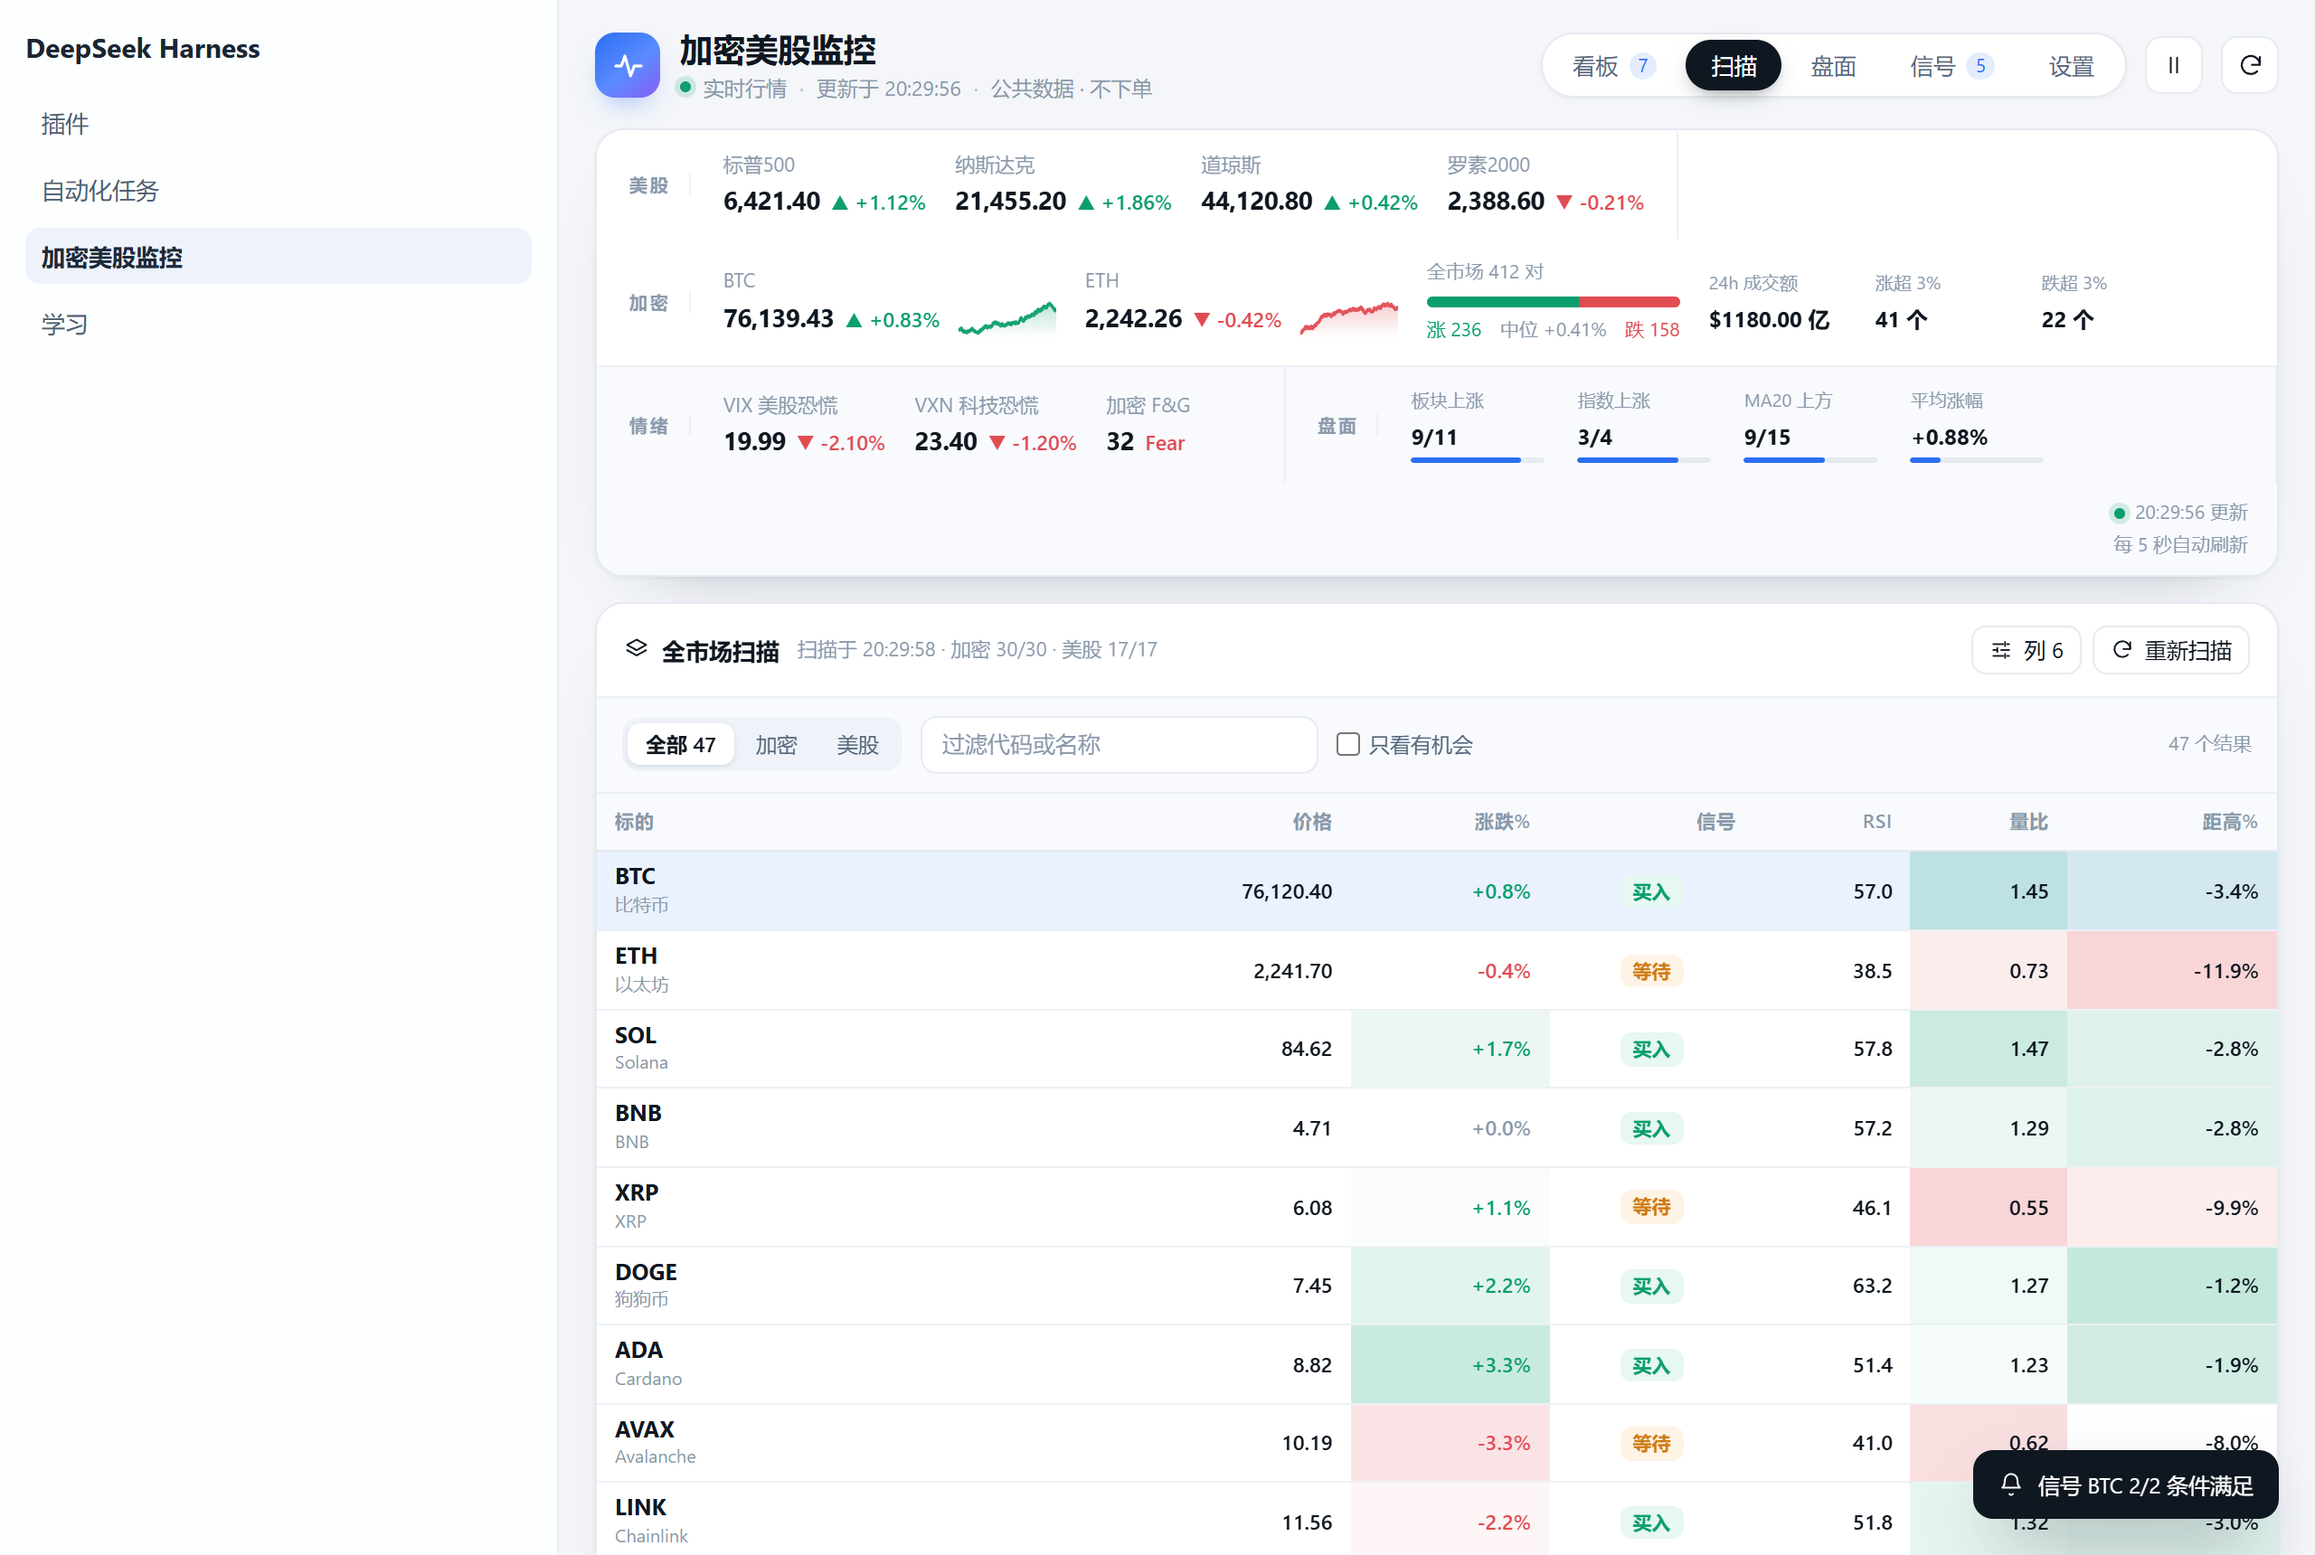
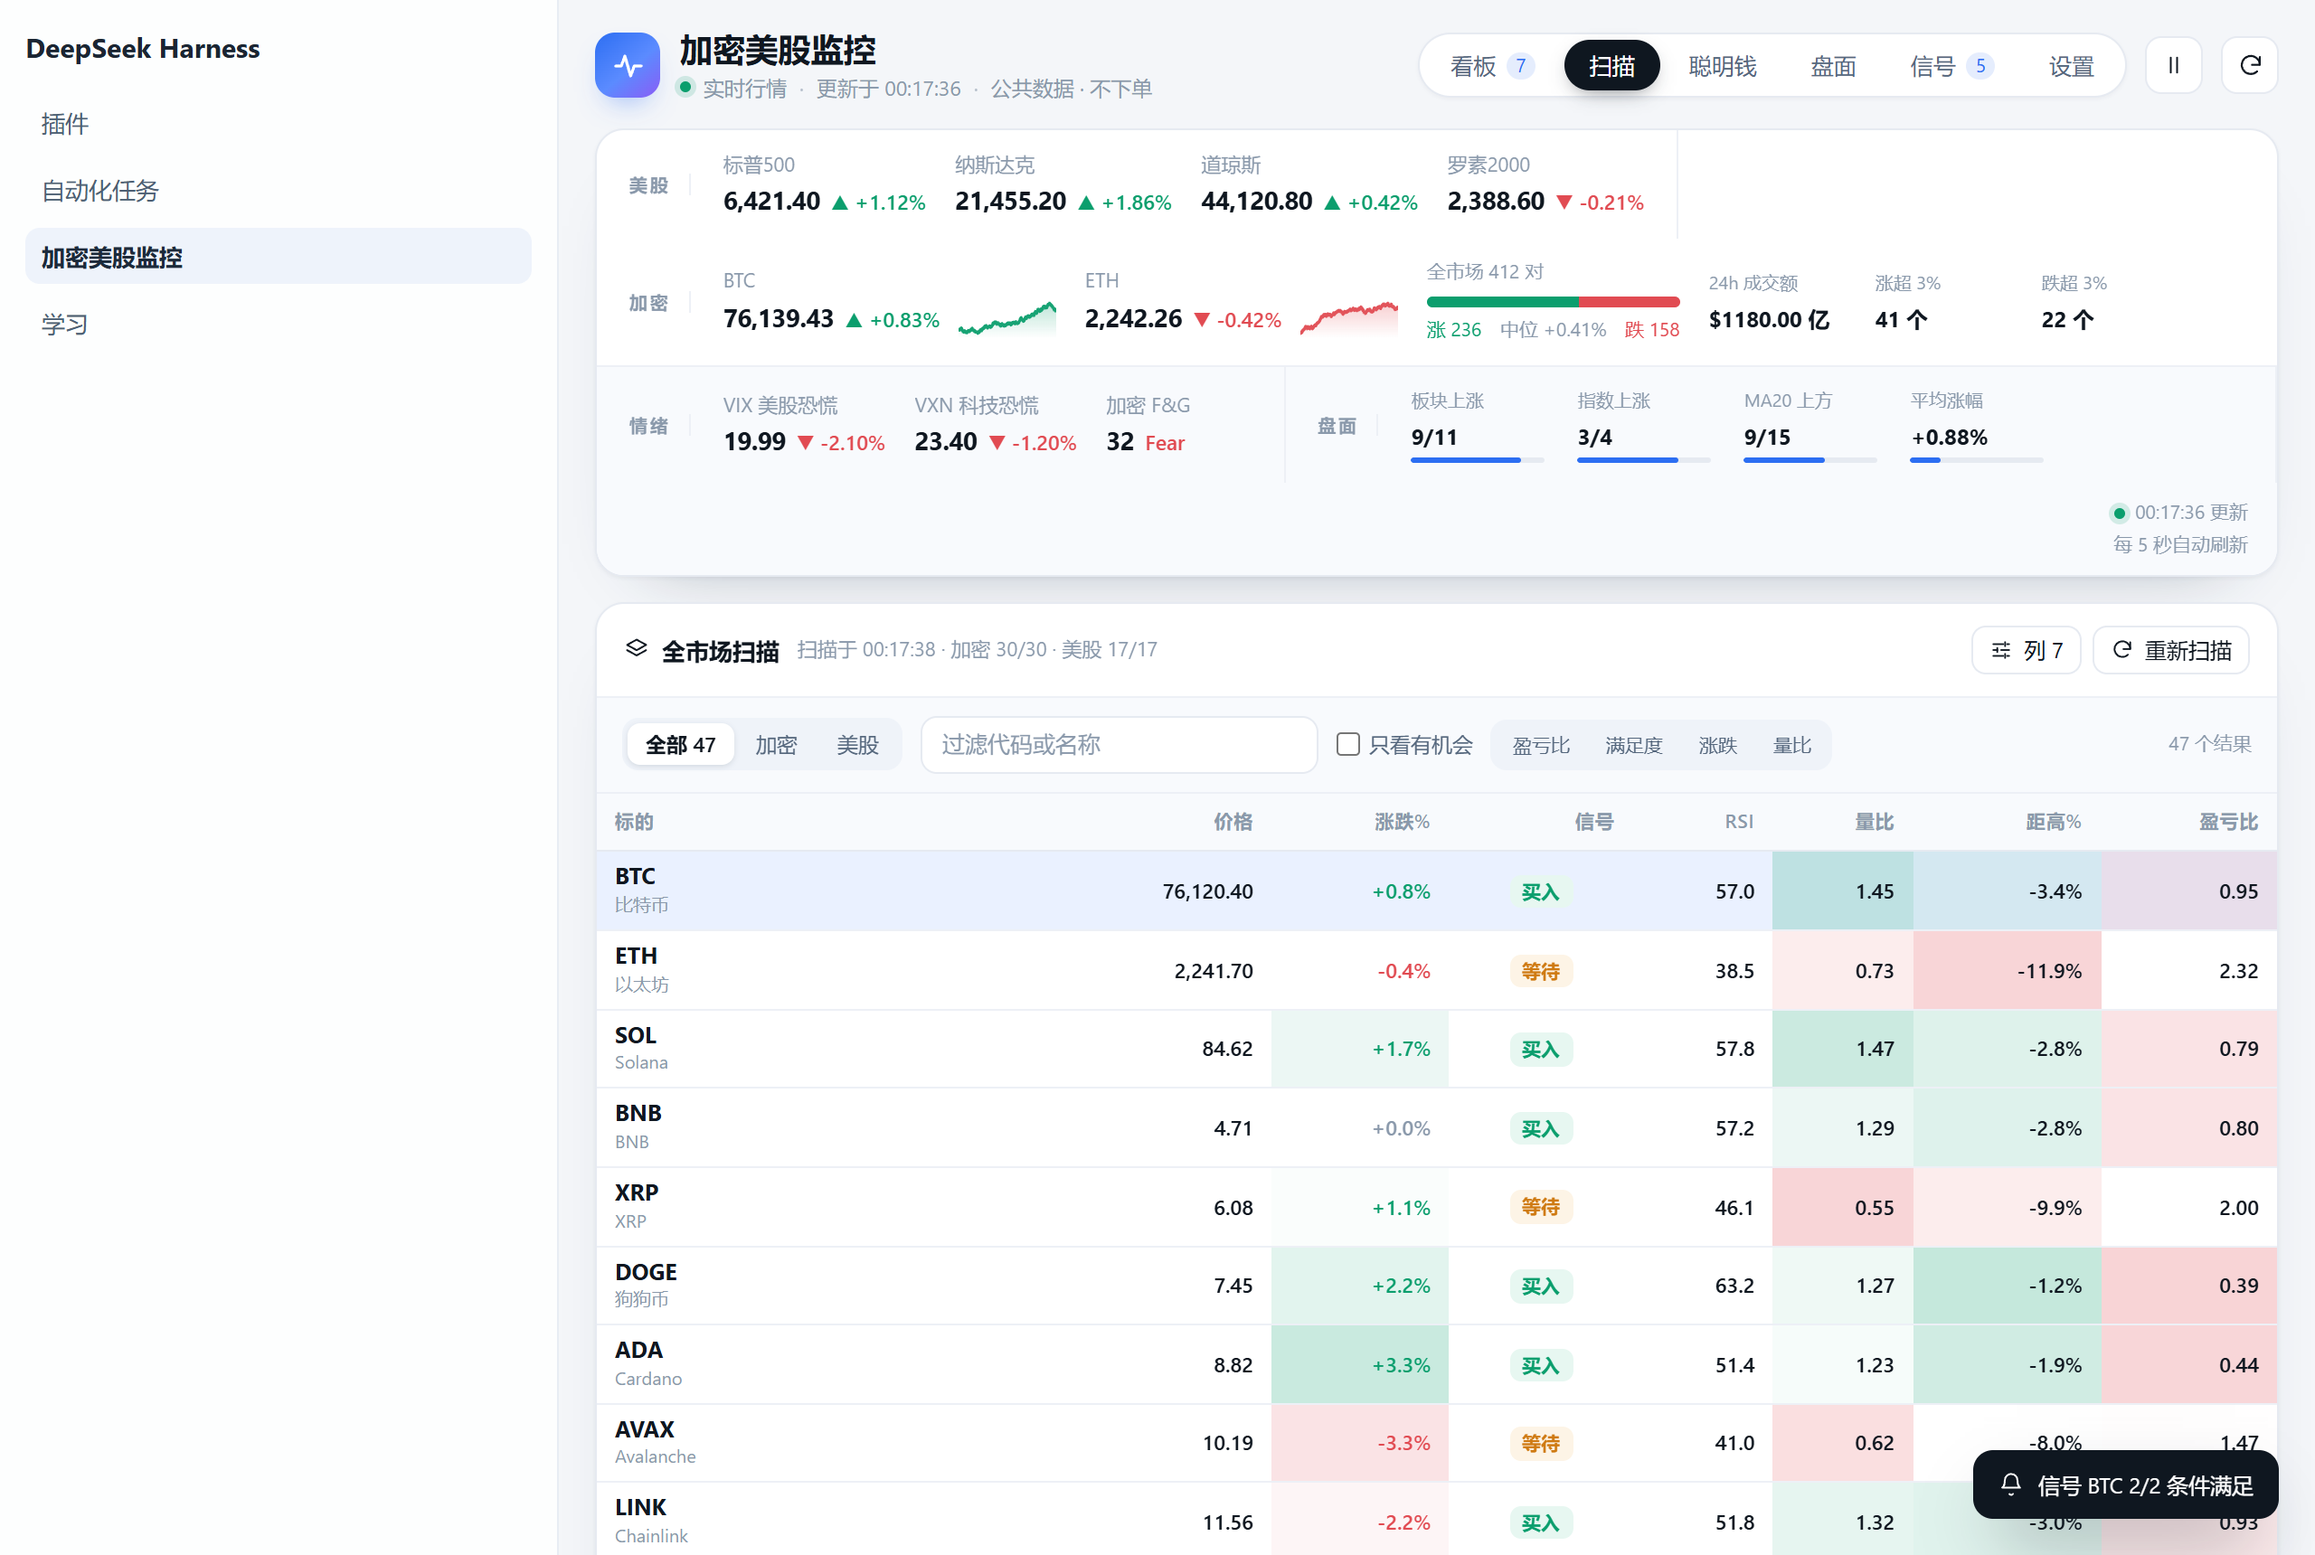
feat: 0.24.0 扫描新增盈亏比排序与 5 项指标列，美股补成交额与 52 周高低

diff --git a/lib/client.js b/lib/client.js
@@ -2119,15 +2119,31 @@ window.__ModuleLoader__.load({
 				{ id: "pctB", label: "%B", kind: "number", digits: 2, heat: "none" },
 				{ id: "bbw", label: "布林分位", kind: "number", digits: 0, suffix: "%", heat: "none" },
 				{ id: "obv", label: "OBV%", kind: "percent", heat: "up" },
-				{ id: "volume", label: "成交额", kind: "compact", heat: "none" }
+				{ id: "volume", label: "成交额", kind: "compact", heat: "none" },
+				{ id: "rr", label: "盈亏比", kind: "number", digits: 2, heat: "up" },
+				{ id: "ma200", label: "距MA200%", kind: "percent", heat: "up" },
+				{ id: "rsi2", label: "RSI2", kind: "number", digits: 1, heat: "none" },
+				{ id: "chg5", label: "5日%", kind: "percent", heat: "up" },
+				{ id: "dist52", label: "距52周高%", kind: "percent", heat: "up" }
 			];
-			const DEFAULT_COLUMNS = ["price", "change", "signal", "rsi", "vol", "distHigh"];
+			const DEFAULT_COLUMNS = ["price", "change", "signal", "rr", "rsi", "vol", "distHigh"];
 
-			function metricsOf(row) {
+			function metricsOf(row, stopAtr) {
 				const ta = row && row.ta ? row.ta : {};
 				const boll = ta.boll || {};
 				const macd = ta.macd || {};
 				const adx = ta.adx || {};
+				const atrPct = isNum(ta.atrPct) ? Number(ta.atrPct) : null;
+				const distHigh = isNum(ta.distanceHigh60Pct) ? Number(ta.distanceHigh60Pct) : null;
+				// 盈亏比 = 到 60 日高的空间 / 止损距离（默认 2×ATR）
+				const rr = distHigh !== null && atrPct !== null && atrPct > 0
+					? Math.abs(distHigh) / (Math.max(1, Number(stopAtr) || 2) * atrPct)
+					: null;
+				const price = row && isNum(row.price) ? Number(row.price) : null;
+				const ma200 = isNum(ta.ma200) ? Number(ta.ma200) : null;
+				const ma200Dist = ma200 !== null && ma200 > 0 && price !== null ? (price / ma200 - 1) * 100 : null;
+				const high52 = row && isNum(row.fiftyTwoWeekHigh) ? Number(row.fiftyTwoWeekHigh) : null;
+				const dist52 = high52 !== null && high52 > 0 && price !== null ? (price / high52 - 1) * 100 : null;
 				return {
 					price: row ? row.price : null,
 					change: row ? row.change : null,
@@ -2144,7 +2160,12 @@ window.__ModuleLoader__.load({
 					pctB: boll.percentB,
 					bbw: boll.bandwidthPercentile,
 					obv: ta.obvSlopePct,
-					volume: row ? row.volume : null
+					volume: row ? row.volume : null,
+					rr: rr,
+					ma200: ma200Dist,
+					rsi2: ta.rsi2,
+					chg5: ta.change5dPct,
+					dist52: dist52
 				};
 			}
 
@@ -2171,7 +2192,7 @@ window.__ModuleLoader__.load({
 
 			function DataTable(props) {
 				const columns = useMemo(() => COLUMN_DEFS.filter((def) => props.columns.indexOf(def.id) >= 0), [props.columns]);
-				const entries = useMemo(() => props.rows.map((row) => ({ row: row, m: metricsOf(row) })), [props.rows]);
+				const entries = useMemo(() => props.rows.map((row) => ({ row: row, m: metricsOf(row, props.stopAtr) })), [props.rows, props.stopAtr]);
 				const [sort, setSort] = useState(null);
 				const ranges = useMemo(() => {
 					const out = {};
@@ -2203,6 +2224,15 @@ window.__ModuleLoader__.load({
 					});
 					return list;
 				}, [entries, sort]);
+
+				useEffect(() => {
+					if (!props.sortSignal) return;
+					const parts = String(props.sortSignal).split(":");
+					const key = parts[0];
+					if (!key) return;
+					const dir = parts[1] === "asc" ? "asc" : "desc";
+					setSort({ key: key, dir: dir });
+				}, [props.sortSignal]);
 
 				const toggleSort = (id) => {
 					setSort((prev) => {
@@ -2294,6 +2324,7 @@ window.__ModuleLoader__.load({
 				const [query, setQuery] = useState("");
 				const [onlyOpps, setOnlyOpps] = useState(false);
 				const [page, setPage] = useState(0);
+				const [sortRequest, setSortRequest] = useState(null);
 				const PAGE_SIZE = 40;
 
 				const filtered = useMemo(() => {
@@ -2366,6 +2397,12 @@ window.__ModuleLoader__.load({
 								}
 							}),
 							"只看有机会"),
+						h("div", { className: "mn-seg mn-seg-compact", title: "按这一列排序" },
+							[["rr", "盈亏比"], ["score", "满足度"], ["change", "涨跌"], ["vol", "量比"]].map((pair) => h("button", {
+								key: pair[0],
+								type: "button",
+								onClick: () => setSortRequest({ key: pair[0], token: Date.now() })
+							}, pair[1]))),
 						h("span", { className: "mn-hint", style: { marginLeft: "auto" } }, filtered.length + " 个结果")),
 					props.error
 						? h("div", { className: "mn-error", style: { margin: "10px 15px" } }, h(Icon, { name: "warn", size: 14 }), props.error)
@@ -2386,6 +2423,8 @@ window.__ModuleLoader__.load({
 							: h(DataTable, {
 								rows: slice,
 								columns: props.columns,
+								stopAtr: props.stopAtr,
+								sortSignal: sortRequest ? sortRequest.key + ":desc:" + sortRequest.token : props.sortSignal,
 								activeKey: props.activeKey,
 								onSelect: props.onOpen,
 								emptyIcon: "layers",
@@ -3199,6 +3238,7 @@ window.__ModuleLoader__.load({
 						price: row.price,
 						change: row.changePct,
 						volume: row.volume,
+						fiftyTwoWeekHigh: row.fiftyTwoWeekHigh ?? null,
 						ta: row.ta || null,
 						analysis: settings.showSignals ? evaluatePreset(row.ta, settings, preset) : null
 					}));
@@ -3657,6 +3697,7 @@ window.__ModuleLoader__.load({
 				} else if (view === "scan") {
 					body = h(ScanView, {
 						rows: scanRows,
+						stopAtr: settings.thresholds ? settings.thresholds.stopAtr : 2,
 						busy: scan.busy,
 						ts: scan.ts,
 						error: scan.error,

diff --git a/lib/index.js b/lib/index.js
@@ -1775,7 +1775,9 @@ async function scanStockRows(limit, config) {
 			name: row.name || symbol,
 			price: row.price,
 			changePct: row.changePct,
-			volume: null,
+			volume: row.price && row.volume ? row.price * row.volume : null,
+			fiftyTwoWeekHigh: row.fiftyTwoWeekHigh ?? null,
+			fiftyTwoWeekLow: row.fiftyTwoWeekLow ?? null,
 			ta: scanTa(row.ta)
 		};
 	}));

diff --git a/README.md b/README.md
@@ -4,6 +4,26 @@
 
 > 界面截图见 `docs/panel.png`、`docs/scan.png`、`docs/table.png`、`docs/mood.png`（重启 DSH 后在左侧图标列打开）。
 
+## 0.24 扫描增强
+
+## 盈亏比
+
+定义：`盈亏比 = |距 60 日高 %| ÷ (止损倍数 × ATR%)`，也就是「涨到 60 日高还有多少空间」除以「按 2×ATR 止损要承担多少波动」。数值越大，同样的止损距离换来的上行空间越多。
+
+- 列默认展示，点表头可升降序。
+- 扫描工具条加了四个快捷键：盈亏比、满足度、涨跌、量比，点一下直接按该列降序。
+- 止损倍数跟随「设置 → 止损 ×ATR」，改参数后盈亏比会跟着变。
+
+## 指标列补全
+
+新增列：盈亏比、距 MA200%、RSI2、5 日%、距 52 周高%。加上原有的价格/涨跌/信号/满足度/RSI/MACD/ADX/ATR%/量比/距高/20 日/%B/布林分位/OBV/成交额，可勾选列共 20 项。
+
+## 数据补充
+
+- 美股扫描行补了成交额（成交量 × 价格）和 52 周高/低，之前这两项是空的。
+- 加密行沿用 24h 成交额。
+- 列选择器会记住你的勾选，存在 localStorage。
+
 ## 0.23 聪明钱 · 带单员
 
 新页签「聪明钱」，第一个区块是「带单员」：把你关注的币安跟单带单员放在一起，每 20 秒刷新。
@@ -127,7 +147,7 @@
 2. 通过 DSH 的插件管理或配置，以本地 `link` 方式加载该目录。
 3. 重启 DSH Desktop，左侧图标列（插件 / 浏览器 / 学习那一列）会出现「加密美股监控」图标；点击后在中央面板打开。
 
-当前版本为 **0.23.2**。带单员支持粘贴主页链接或 ID 添加；没有公开带单的账号会明确提示持仓不可见。新增「聪明钱」页签，第一个区块「带单员」实时汇总你关注的币安带单员持仓、战绩与最近平仓；搜索昵称即可添加，默认预置 trader Yy、电鱼哥实盘、熬鹰资本。
+当前版本为 **0.24.0**。扫描页新增盈亏比列与一键按盈亏比/满足度/涨跌/量比排序，指标列补到 20 项（距 MA200、RSI2、5 日涨幅、距 52 周高），美股补成交额与 52 周高低。
 
 包名与插件 ID：`dsh-crypto-us-stock-monitor`。`package.json` 中的 `dsh.bundle.patch` 指向 `cordis.patch.yml`。
 
